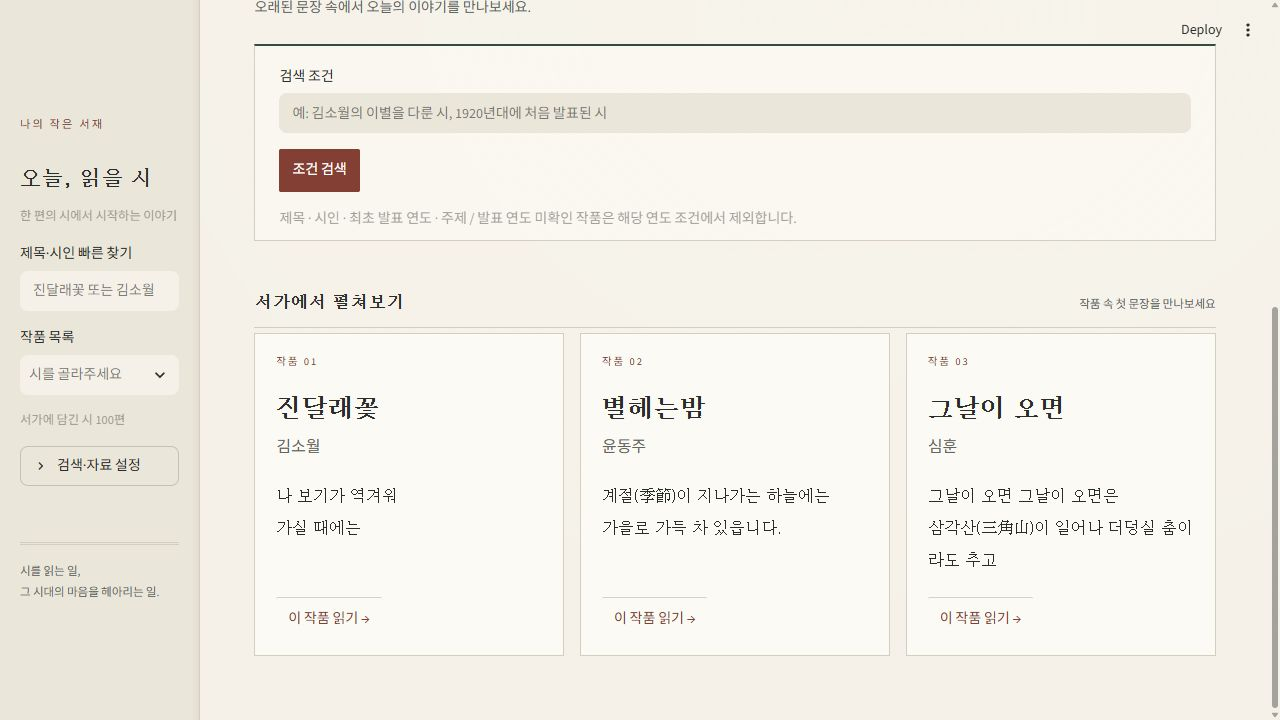
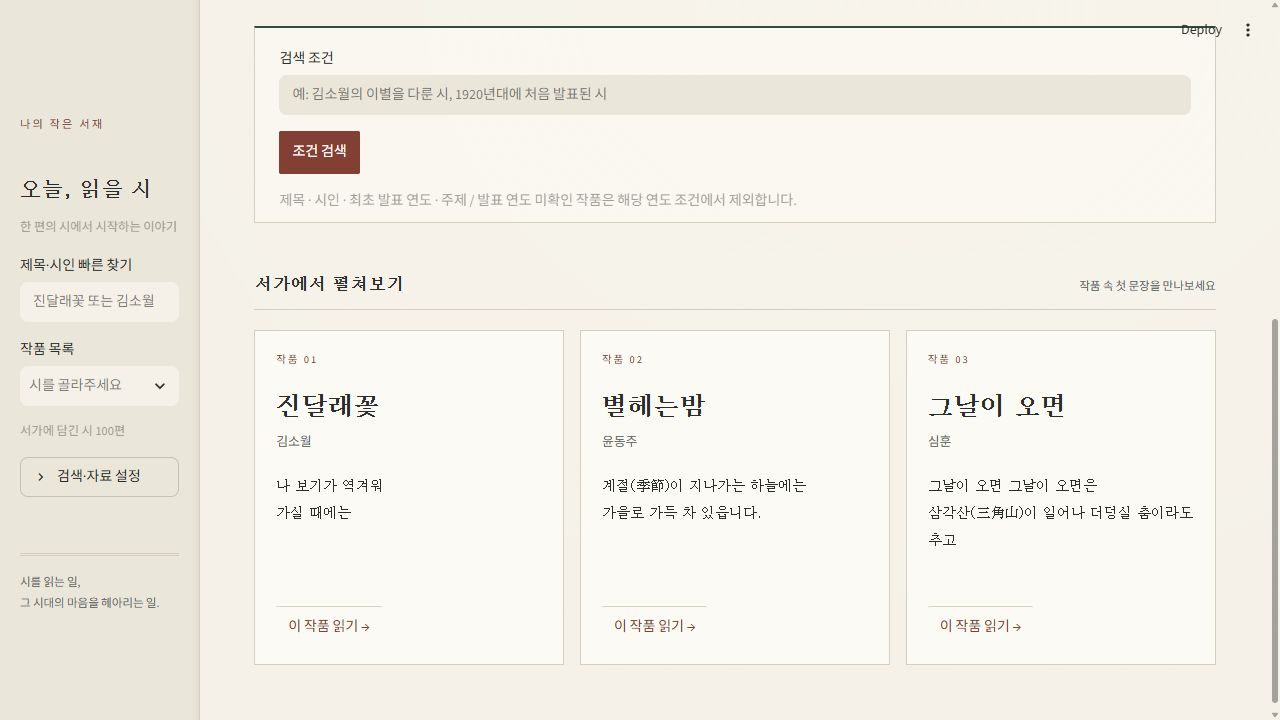
HTML 전용 지면으로 원문 기호 보존 및 리뷰 회귀 검증 (#19)

diff --git a/sidam/literary.css b/sidam/literary.css
@@ -58,7 +58,7 @@ button:focus-visible, a:focus-visible, input:focus-visible, textarea:focus-visib
 .sidam-excerpt { font-family: var(--sidam-serif); font-size: .85rem; line-height: 2; white-space: pre-wrap; overflow-wrap: anywhere; min-height: 6rem; margin-bottom: 1.3rem; }
 [class*="st-key-feature_"] button { border: 0; border-top: 1px solid var(--sidam-rule); background: transparent; width: 100%; justify-content: space-between; color: var(--sidam-red); }
 [class*="st-key-result_"] { border-bottom: 1px solid var(--sidam-rule); padding: 1.2rem .2rem; }
-[data-testid="stMarkdownContainer"] .sidam-result-title { font-family: var(--sidam-serif); font-size: 1.4rem; margin: 0; }
+p.sidam-result-title { font-family: var(--sidam-serif); font-size: 1.4rem; margin: 0; }
 .sidam-result-title span { font-family: sans-serif; font-size: .8rem; color: var(--sidam-muted); margin-left: 1rem; }
 .sidam-reading-heading { text-align: center; padding: .8rem 0 .3rem; }
 .sidam-reading-heading h2 { font-family: var(--sidam-serif); font-size: 2.25rem; letter-spacing: .06em; margin: .2rem 0 .65rem; padding: 0; font-weight: 600; }
@@ -84,6 +84,8 @@ button:focus-visible, a:focus-visible, input:focus-visible, textarea:focus-visib
 .sidam-chat-empty p { font-size: 1.2rem; }
 .sidam-chat-empty small { font-family: sans-serif; font-size: .8rem; }
 [data-testid="stChatMessage"] { border-radius: 2px; border: 1px solid var(--sidam-rule); padding: 1rem; background: var(--sidam-page); }
+[data-testid="stChatMessageAvatarUser"] { background-color: #e8e1d3; color: var(--sidam-ink); border-radius: 2px; }
+[data-testid="stChatMessageAvatarAssistant"] { background-color: #344b40; color: var(--sidam-page); border-radius: 2px; }
 [data-testid="stChatInput"] { border-radius: 3px; border-color: #a9a18f; background: var(--sidam-page); }
 [data-testid="stExpander"] { border-radius: 2px; }
 [data-testid="stAlert"] { border-radius: 2px; }

diff --git a/sidam/ui.py b/sidam/ui.py
@@ -66,7 +66,7 @@ def run_question(service, pid, question, mode="chat", quote=""):
 
 def main():
     st.set_page_config(page_title="시담 · 시를 읽고, 시대를 묻다", page_icon="📖", layout="wide")
-    st.markdown(f"<style>{Path(__file__).with_name('literary.css').read_text(encoding='utf-8')}</style>", unsafe_allow_html=True)
+    st.html(Path(__file__).with_name("literary.css"))
     root = Path(__file__).resolve().parents[1]
     try:
         service = get_service(str(root), (root / "sidam.toml").stat().st_mtime_ns)
@@ -75,9 +75,9 @@ def main():
         return
     counts = service.store.counts()
     reading = bool(st.session_state.get("selected_poem")) and st.session_state.get("main_tab") == "작품 읽기 · 질문"
-    st.markdown(masthead(len(service.poems), compact=reading), unsafe_allow_html=True)
+    st.html(masthead(len(service.poems), compact=reading))
     with st.sidebar:
-        st.markdown('<span class="sidam-eyebrow">나의 작은 서재</span>', unsafe_allow_html=True)
+        st.html('<span class="sidam-eyebrow">나의 작은 서재</span>')
         st.header("오늘, 읽을 시")
         st.caption("한 편의 시에서 시작하는 이야기")
         quick = st.text_input("제목·시인 빠른 찾기", key="quick_filter", placeholder="진달래꽃 또는 김소월")
@@ -110,11 +110,11 @@ def main():
         if selected and st.button("이 작품 대화 지우기"):
             st.session_state.setdefault("messages_by_poem_id", {})[selected] = []
             st.rerun()
-        st.markdown('<div class="sidam-footer">시를 읽는 일,<br>그 시대의 마음을 헤아리는 일.</div>', unsafe_allow_html=True)
+        st.html('<div class="sidam-footer">시를 읽는 일,<br>그 시대의 마음을 헤아리는 일.</div>')
     find_tab, read_tab = st.tabs(["조건으로 작품 찾기", "작품 읽기 · 질문"], key="main_tab", on_change="rerun")
     with find_tab:
-        st.markdown('''<div class="sidam-intro"><span class="sidam-eyebrow">시를 만나는 서가</span>
-<h2>어떤 마음의 시를 찾고 있나요?</h2><p>기억 속 제목으로, 한 시인의 이름으로, 혹은 마음에 남은 주제로.<br>오래된 문장 속에서 오늘의 이야기를 만나보세요.</p></div>''', unsafe_allow_html=True)
+        st.html('''<div class="sidam-intro"><span class="sidam-eyebrow">시를 만나는 서가</span>
+<h2>어떤 마음의 시를 찾고 있나요?</h2><p>기억 속 제목으로, 한 시인의 이름으로, 혹은 마음에 남은 주제로.<br>오래된 문장 속에서 오늘의 이야기를 만나보세요.</p></div>''')
         with st.container(key="search_desk"):
             with st.form("poem_search"):
                 query = st.text_input("검색 조건", placeholder="예: 김소월의 이별을 다룬 시, 1920년대에 처음 발표된 시")
@@ -131,7 +131,7 @@ def main():
             except Exception:
                 st.error("작품 검색을 완료하지 못했습니다. 다시 시도해 주세요.")
         if "search_results" in st.session_state:
-            st.markdown(f'<div class="sidam-section-line"><strong>찾아낸 작품</strong><span>{len(st.session_state["search_results"])}편의 시</span></div>', unsafe_allow_html=True)
+            st.html(f'<div class="sidam-section-line"><strong>찾아낸 작품</strong><span>{len(st.session_state["search_results"])}편의 시</span></div>')
             if st.session_state.get('search_conditions', {}).get('match_kind'):
                 st.caption('오탈자 후보입니다. 제목과 시인을 확인한 뒤 작품을 선택하세요.')
             if not st.session_state["search_results"]:
@@ -139,31 +139,31 @@ def main():
             for pid in st.session_state["search_results"]:
                 p = service.poems[pid]
                 with st.container(key=f"result_{pid}"):
-                    st.markdown(f'<p class="sidam-result-title">{escape(p["title"])}<span>{escape(p["author"])}</span></p>', unsafe_allow_html=True)
+                    st.html(f'<p class="sidam-result-title">{escape(p["title"])}<span>{escape(p["author"])}</span></p>')
                     st.caption(f"최초 발표: {p.get('first_publication_year', '미확인')} · 시집 간행: {p.get('collection_publication_year', '미확인')}")
                     st.write(p["theme_summary"][:350] or "주제 설명 미확인")
                     st.button("이 작품 읽기", key=f"choose_{pid}", on_click=choose_poem, args=(pid,))
         else:
-            st.markdown('<div class="sidam-section-line"><strong>서가에서 펼쳐보기</strong><span>작품 속 첫 문장을 만나보세요</span></div>', unsafe_allow_html=True)
+            st.html('<div class="sidam-section-line"><strong>서가에서 펼쳐보기</strong><span>작품 속 첫 문장을 만나보세요</span></div>')
             featured = [pid for pid in ("9000320", "9000761", "13313827") if pid in service.poems]
             if featured:
                 for number, (column, pid) in enumerate(zip(st.columns(len(featured)), featured), 1):
                     with column, st.container(key=f"feature_{pid}"):
-                        st.markdown(preview(service.poems[pid], number), unsafe_allow_html=True)
+                        st.html(preview(service.poems[pid], number))
                         st.button("이 작품 읽기 →", key=f"featured_choose_{pid}", on_click=choose_poem, args=(pid,))
     with read_tab:
         if not selected:
-            st.markdown('<div class="sidam-chat-empty"><span class="sidam-eyebrow">아직 펼치지 않은 페이지</span><p>오늘은 어떤 시와 이야기를 나눌까요?</p><small>왼쪽 작품 목록이나 서가의 작품 카드에서 읽고 싶은 시를 골라주세요.</small></div>', unsafe_allow_html=True)
+            st.html('<div class="sidam-chat-empty"><span class="sidam-eyebrow">아직 펼치지 않은 페이지</span><p>오늘은 어떤 시와 이야기를 나눌까요?</p><small>왼쪽 작품 목록이나 서가의 작품 카드에서 읽고 싶은 시를 골라주세요.</small></div>')
             return
         poem = service.poems[selected]
-        st.markdown(reading_heading(poem), unsafe_allow_html=True)
+        st.html(reading_heading(poem))
         with st.container(key="reading_dates"):
             st.caption(f"최초 발표 {poem.get('first_publication_year', '미확인')} · 시집 간행 {poem.get('collection_publication_year', '미확인')} · 창작 {poem.get('written_year', '미확인')}")
         if poem.get("reported_year") and poem.get("reported_year_kind") == "unknown":
             st.caption(f"원시 자료의 연도 {poem['reported_year']}년은 종류 확인 전이라 최초 발표 검색에 사용하지 않습니다.")
         left, right = st.columns([1, 1.15], gap="large")
         with left:
-            st.markdown(poem_page(poem), unsafe_allow_html=True)
+            st.html(poem_page(poem))
             st.link_button("전문 출처", poem["text_source_url"])
             with st.expander("해설 기반 주제 설명"):
                 st.write(poem["theme_summary"] or "주제 설명 미확인")
@@ -177,10 +177,10 @@ def main():
                 else:
                     run_question(service, selected, f"선택한 구절의 표현과 가능한 의미, 배경을 근거와 한계와 함께 설명해주세요: {quote}", "card", quote)
         with right, st.container(key="conversation"):
-            st.markdown('<div class="sidam-panel-heading">시와 나누는 이야기</div>', unsafe_allow_html=True)
+            st.html('<div class="sidam-panel-heading">시와 나누는 이야기</div>')
             st.caption("확인된 사실과 가능한 해석을 구분합니다. 자료가 부족한 부분은 단정하지 않습니다.")
             if not history(st.session_state, selected):
-                st.markdown('<div class="sidam-chat-empty"><p>한 구절의 의미가 궁금해졌다면.</p><small>시의 표현과 상징, 그 문장이 쓰인 시대를 물어보세요.<br>원문과 확인한 자료를 함께 살펴봅니다.</small></div>', unsafe_allow_html=True)
+                st.html('<div class="sidam-chat-empty"><p>한 구절의 의미가 궁금해졌다면.</p><small>시의 표현과 상징, 그 문장이 쓰인 시대를 물어보세요.<br>원문과 확인한 자료를 함께 살펴봅니다.</small></div>')
             for message in history(st.session_state, selected):
                 with st.chat_message(message["role"]):
                     st.markdown(message["content"])
@@ -193,4 +193,4 @@ def main():
             question = st.chat_input("이 시의 구절·상징·배경을 물어보세요", disabled=not service.models or not counts["poems"])
             if question:
                 run_question(service, selected, question)
-    st.markdown('<footer class="sidam-footer"><span>시담 · 한국 근대시를 읽고 이야기하는 공간</span><span>원문에서 시작하여, 근거를 따라 읽습니다.</span></footer>', unsafe_allow_html=True)
+    st.html('<footer class="sidam-footer"><span>시담 · 한국 근대시를 읽고 이야기하는 공간</span><span>원문에서 시작하여, 근거를 따라 읽습니다.</span></footer>')

diff --git a/tests/test_presentation.py b/tests/test_presentation.py
@@ -2,6 +2,7 @@
 from html.parser import HTMLParser
 
 import pytest
+from pathlib import Path
 
 
 class PageParser(HTMLParser):
@@ -32,3 +33,30 @@ def test_poem_page_preserves_text_without_interpreting_external_html(field):
     rendered_text = "".join(parser.text)
     assert poem[field] in rendered_text
     assert poem["text"] in rendered_text
+
+
+def test_reading_ui_does_not_turn_poem_markdown_into_external_assets(monkeypatch, tmp_path):
+    from markdown_it import MarkdownIt
+    from streamlit.testing.v1 import AppTest
+    from sidam.config import Config
+    from sidam.service import Service
+    from sidam import ui
+
+    monkeypatch.setenv("GMS_KEY", "")
+    monkeypatch.setattr(Config, "index_path", property(lambda self: tmp_path / "index"))
+    root = Path(__file__).resolve().parents[1]
+    service = Service(Config.load(root))
+    payload = '첫 행\n\n![tracker](https://example.invalid/tracker.png)\n\n# 원문 속 기호\n\n[링크 모양](https://example.invalid/link)'
+    service.poems["9000320"]["text"] = payload
+    monkeypatch.setattr(ui, "get_service", lambda *_: service)
+    app = AppTest.from_file(str(root / "step7_skeleton.py"), default_timeout=60).run()
+    app.selectbox(key="selected_poem").select("9000320").run()
+    assert not app.exception
+    pages = [(e.value, True) for e in app.markdown if '<article class="sidam-poem-page"' in e.value]
+    pages += [(e.proto.body, False) for e in app.get("html") if '<article class="sidam-poem-page"' in e.proto.body]
+    assert len(pages) == 1
+    body, uses_markdown = pages[0]
+    parser = PageParser()
+    parser.feed(MarkdownIt().render(body) if uses_markdown else body)
+    assert not {"img", "a", "h1"} & {tag for tag, _ in parser.tags}
+    assert payload in "".join(parser.text)

diff --git a/tests/test_ui.py b/tests/test_ui.py
@@ -16,12 +16,12 @@ def test_no_key_allows_reading_and_shows_no_index_guidance(monkeypatch, tmp_path
     assert any("색인이 없습니다" in e.value for e in app.info)
     app.selectbox(key="selected_poem").select("9000320").run()
     assert not app.exception
-    assert any("진달래꽃" in e.value for e in app.markdown)
-    assert any("나 보기가 역겨워" in e.value for e in app.markdown)
+    assert any("진달래꽃" in e.proto.body for e in app.get("html"))
+    assert any("나 보기가 역겨워" in e.proto.body for e in app.get("html"))
     assert app.session_state["main_tab"] == "작품 읽기 · 질문"
     assert app.chat_input[0].disabled
     app.selectbox(key="selected_poem").select("13313827").run()
     assert not app.exception
-    assert any("그날이 오면" in e.value for e in app.markdown)
-    assert any("그날이 오면 그날이 오면은" in e.value for e in app.markdown)
+    assert any("그날이 오면" in e.proto.body for e in app.get("html"))
+    assert any("그날이 오면 그날이 오면은" in e.proto.body for e in app.get("html"))
     get_service.clear()

diff --git a/docs/validation/DESIGN-019.md b/docs/validation/DESIGN-019.md
@@ -8,7 +8,7 @@
 
 SPEC 최초 커밋 `f38cdcc` 후 HTML 지면의 제목·저자·전문에 스크립트/이미지 삽입 반례를 작성했다. 이스케이프하지 않은 최초 렌더러에서 세 사례 모두 태그가 해석되어 실패(Red 3건)했고, 이스케이프 후 통과했다. 줄바꿈·빈 줄과 원래 텍스트가 파싱 후 보존되는 것도 확인했다. 기존 AppTest는 전문의 새 HTML 표시 경로에 맞춰 작품 제목뿐 아니라 실제 첫 구절도 확인한다. 없는 키·없는 색인의 안내와 비활성화된 채팅, 작품 전환을 유지한다.
 
-- 전체 오프라인 테스트: **67개 통과, 10.13초**. 실제 GMS 호출을 CI 테스트에 넣지 않는다.
+- 전체 오프라인 테스트: **68개 통과, 10.78초**. 실제 GMS 호출을 CI 테스트에 넣지 않는다.
 - Python 컴파일: 통과. 기존 재현 기준 검사: 작품 100편·문서 343건·근거 청크 474건·제외 자료 228건으로 통과.
 - 재현 기준과 사용 중인 로컬 DB의 추가 수집분은 별개다. 화면에 표시된 현재 로컬 DB는 543청크였으며 이를 고정 기준 474청크로 바꾸어 보고하지 않는다.
 
@@ -24,9 +24,15 @@ SPEC 최초 커밋 `f38cdcc` 후 HTML 지면의 제목·저자·전문에 스크
 | AC-D4 | 확인 범위 통과. 두 크기의 페이지 가로 폭은 각각 1280/390으로 viewport와 일치했다. 모바일 전문 가로 스크롤 폭과 표시 폭은 모두 304px, 한 열로 표시된다. 모바일에서 서가를 다시 열고 설정·MMR을 선택했다. Tab으로 조건 검색 버튼에 이동했을 때 2px 인주색 실선 포커스를 확인했다. |
 | AC-D5 | 통과. 외부 문자열 이스케이프·줄바꿈 보존 테스트 3건과 템플릿/CSS 검토. 추가 외부 자원 URL 없음. |
 
-실제 질문 ‘진달래꽃을 길에 뿌리는 표현은 어떻게 해석할 수 있나요?’는 8.48초에 답변을 표시했고 실제 인용 근거 3건(작품 메타데이터·시 전문·한국민족문화대백과 요약)의 원문 링크/접근 범위를 펼쳐 확인했다. ‘죽어도 아니 눈물 흘리우리다’ 구절 카드는 8.33초에 표현·가능한 해석·배경·근거와 한계 및 인용 근거 2건을 표시했다. 이는 화면 경로의 실연결 확인이며 전체 문학 해석 품질·성능 개선을 판정한 결과가 아니다.
+리뷰 수정 후 실제 질문 ‘진달래꽃을 길에 뿌리는 표현은 어떻게 해석할 수 있나요?’는 9.09초에 답변을 표시했고 실제 인용 근거 2건(시 전문·위키백과 요약)의 원문 링크/접근 범위를 펼쳐 확인했다. ‘죽어도 아니 눈물 흘리우리다’ 구절 카드는 9.5초에 표현·가능한 해석·배경·근거와 한계 및 인용 근거 2건을 표시했다. 이는 화면 경로의 실연결 확인이며 전체 문학 해석 품질·성능 개선을 판정한 결과가 아니다.
 
-MMR로 옵션을 바꿔도 과거 두 답변의 `similarity` 표시와 근거 3건/2건은 유지되었다. 그날이 오면으로 옮기면 대화가 0건이었고, 진달래꽃으로 돌아오면 기존 질문·답변 4개와 과거 출처/검색 방식이 복원되었다. 새로운 질문의 MMR 알고리즘 자체는 기존 MMR-011 검증 범위다.
+MMR로 옵션을 바꿔도 과거 두 답변의 `similarity` 표시와 근거 각 2건은 유지되었다. 그날이 오면으로 옮기면 대화가 0건이었고, 진달래꽃으로 돌아오면 기존 질문·답변 4개와 과거 출처/검색 방식이 복원되었다. 새로운 질문의 MMR 알고리즘 자체는 기존 MMR-011 검증 범위다.
+
+## 독립 리뷰 반례와 수정
+
+첫 리뷰는 이스케이프된 전문을 `st.markdown`으로 표시하면 빈 줄 뒤 이미지·제목·링크 문법이 재해석될 수 있다고 지적했다. SPEC 보완 커밋 `6a6b1ab` 후 실제 UI 선택 경로를 AppTest로 실행하고 Markdown 단계까지 파싱하는 회귀를 추가했다. 수정 전 `<img>`, `<a>`, `<h1>` 생성 때문에 실패했으며(Red 1건), 새 HTML 지면·장식을 모두 `st.html`로 전환한 뒤 통과했다. 생성 답변/사용자 질문의 기존 Markdown 경로는 유지한다.
+
+별도 임시 DB·가짜 전문을 사용하는 로컬 검증 앱으로 실제 UI도 확인했다. 전문에 `![tracker](...)`, `# 원문 속 기호`, `[링크 모양](...)` 및 빈 줄을 넣고, 표시된 전문의 DOM에서 img/a/h1이 각각 0개이며 `textContent`가 입력 전체와 일치함을 확인했다. 실제 작품 파일·원격 자료·운영 DB는 변경하지 않았다. 이 앱은 키 없이 실행했으므로 키·색인 없음 안내도 실제 화면에서 확인했다. [원문 기호 보존 화면](screenshots/design-20261023/09-literal-markdown.png).
 
 주요 단색 조합의 대비 비율은 먹색/종이색 12.41:1, 보조 글자/사이드바 4.71:1, 인주색/종이색 6.80:1, 흰 글자/인주색 버튼 7.66:1이다. 실제 보조 글자 계산 색상 `rgb(98,102,93)`도 확인했다. 모든 브라우저·운영체제 폰트·보조공학에 대한 인증을 뜻하지 않는다. 설치된 폰트에 따라 자형과 줄바꿈은 달라질 수 있다.
 
